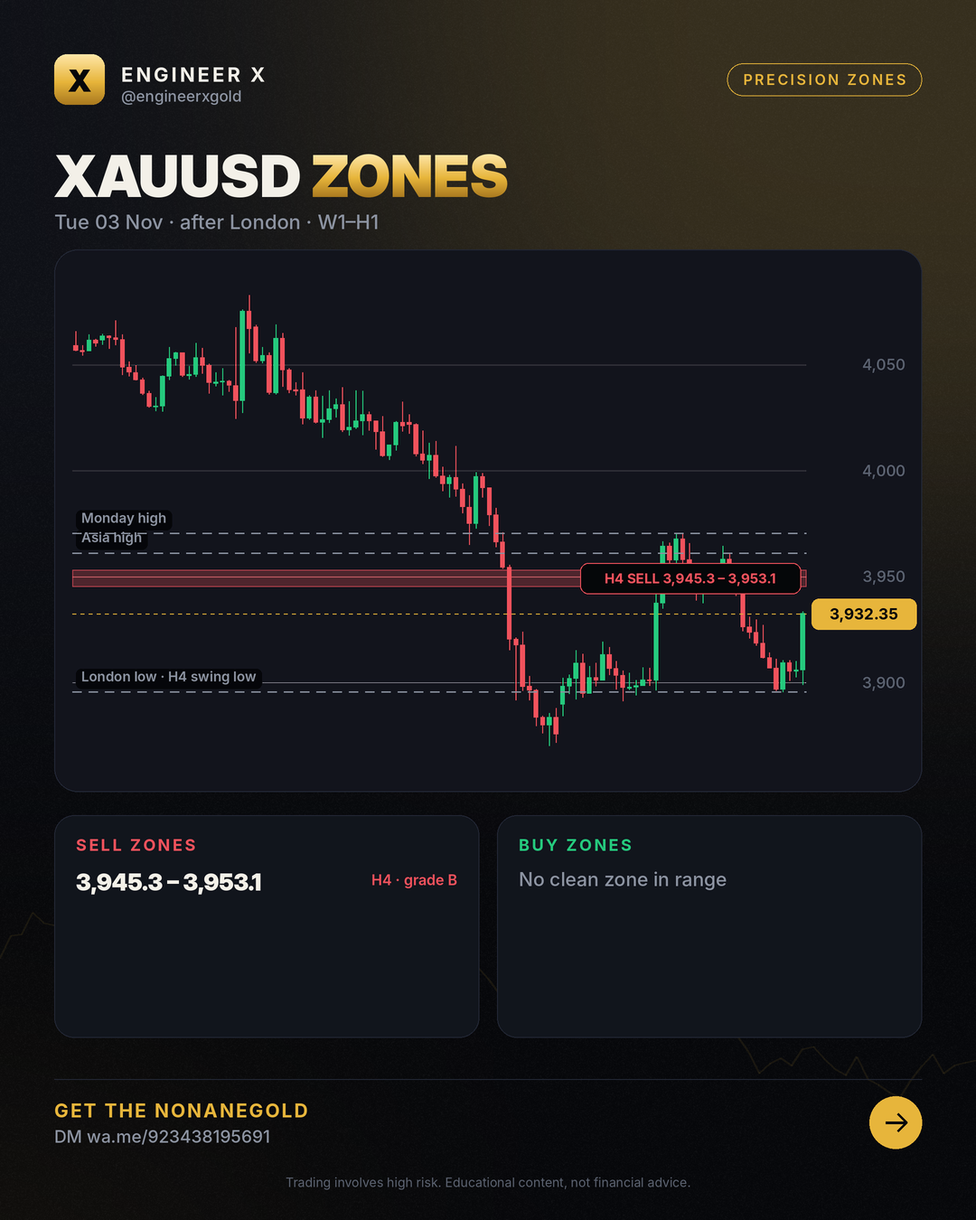
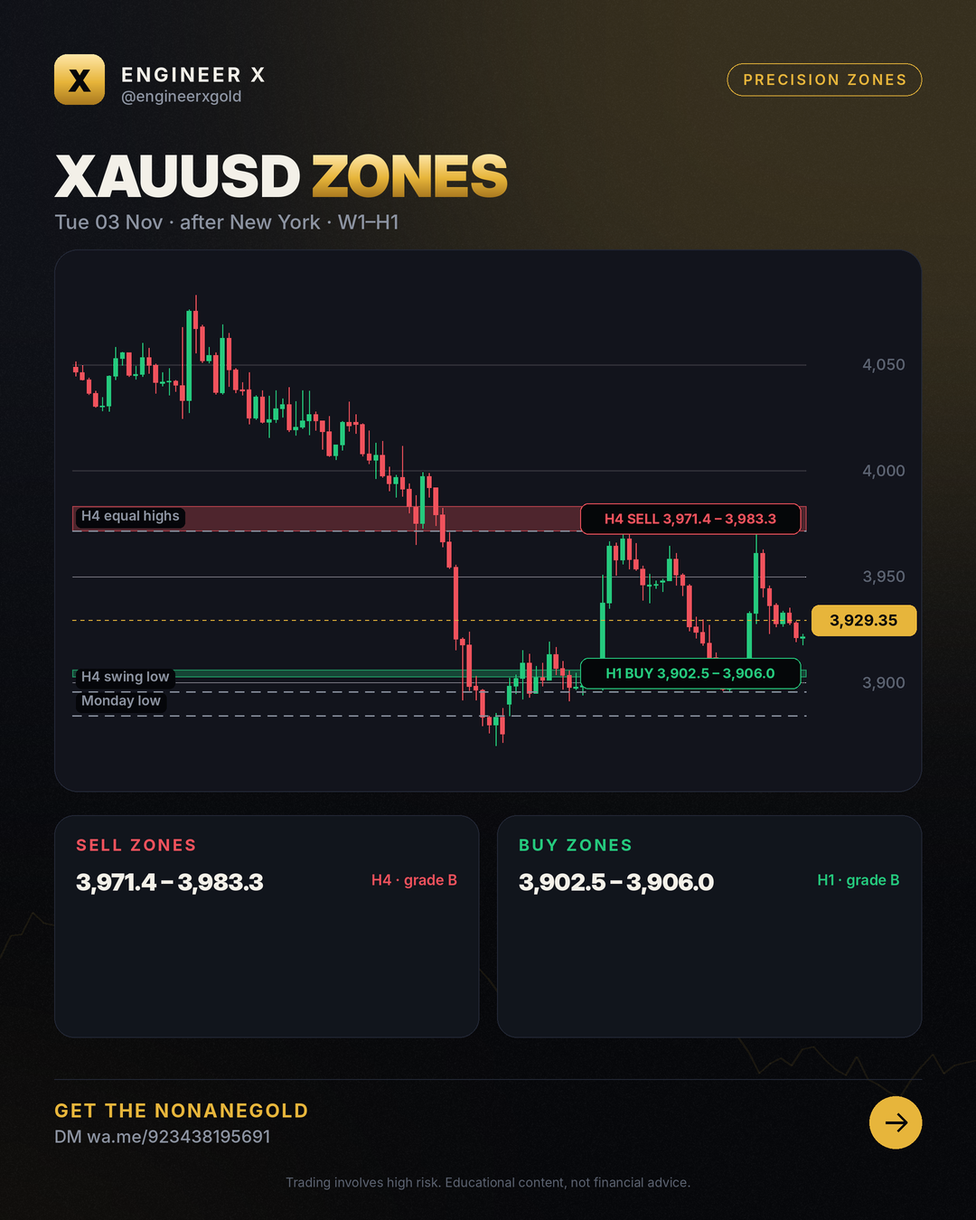
zones 2026-11-03 Tue 03 Nov · after New York · W1–H1

diff --git a/zones/index.html b/zones/index.html
@@ -4,7 +4,7 @@
 <meta charset="utf-8">
 <meta name="viewport" content="width=device-width,initial-scale=1">
 <title>XAUUSD Zones Today – Buy &amp; Sell Zones (H4, H1) | Engineer X</title>
-<meta name="description" content="XAUUSD buy and sell zones for 2026-11-03: tested W1, D1, H4 and H1 zones with invalidation levels, updated after the Asian, London and New York sessions. Price 3,932.35.">
+<meta name="description" content="XAUUSD buy and sell zones for 2026-11-03: tested W1, D1, H4 and H1 zones with invalidation levels, updated after the Asian, London and New York sessions. Price 3,929.35.">
 <meta name="robots" content="index,follow,max-image-preview:large,max-snippet:-1,max-video-preview:-1">
 <meta name="author" content="Engr. M Ahmad Mehmood">
 <link rel="canonical" href="https://engineerxgold.github.io/zones/">
@@ -12,7 +12,7 @@
 <link rel="apple-touch-icon" href="../img/logo.png">
 <meta property="og:site_name" content="Engineer X">
 <meta property="og:title" content="XAUUSD Zones Today – Buy &amp; Sell Zones (H4, H1) | Engineer X">
-<meta property="og:description" content="XAUUSD buy and sell zones for 2026-11-03: tested W1, D1, H4 and H1 zones with invalidation levels, updated after the Asian, London and New York sessions. Price 3,932.35.">
+<meta property="og:description" content="XAUUSD buy and sell zones for 2026-11-03: tested W1, D1, H4 and H1 zones with invalidation levels, updated after the Asian, London and New York sessions. Price 3,929.35.">
 <meta property="og:type" content="website">
 <meta property="og:url" content="https://engineerxgold.github.io/zones/">
 <meta property="og:image" content="https://engineerxgold.github.io/zones/img/2026-11-03.png">
@@ -22,7 +22,7 @@
 <meta property="og:locale" content="en_US">
 <meta name="twitter:card" content="summary_large_image">
 <meta name="twitter:title" content="XAUUSD Zones Today – Buy &amp; Sell Zones (H4, H1) | Engineer X">
-<meta name="twitter:description" content="XAUUSD buy and sell zones for 2026-11-03: tested W1, D1, H4 and H1 zones with invalidation levels, updated after the Asian, London and New York sessions. Price 3,932.35.">
+<meta name="twitter:description" content="XAUUSD buy and sell zones for 2026-11-03: tested W1, D1, H4 and H1 zones with invalidation levels, updated after the Asian, London and New York sessions. Price 3,929.35.">
 <meta name="twitter:image" content="https://engineerxgold.github.io/zones/img/2026-11-03.png">
 <meta name="twitter:image:alt" content="XAUUSD Zones Today – Buy &amp; Sell Zones (H4, H1) | Engineer X">
 
@@ -101,7 +101,7 @@ footer .fl a{color:var(--muted);margin-right:16px}
 <div class="wrap">
 <nav><a class="logo" href="../"><b>X</b>Engineer X</a>
 <div class="links"><a href="../zones/">Daily Zones</a><a href="../blog/">Learn</a><a href="../ea/">Gold EA</a><a href="../about/">About</a><a class="cta" href="https://wa.me/923438195691">Get the EA</a></div></nav>
-<section class="hero"><span class="chip">Updated Tue 03 Nov · after London · W1–H1</span><h1>XAUUSD <span class="gold">precision zones</span></h1><p>XAUUSD buy and sell zones for 2026-11-03: tested W1, D1, H4 and H1 zones with invalidation levels, updated after the Asian, London and New York sessions. Price 3,932.35.</p></section><img src="img/2026-11-03.png" alt="Latest XAUUSD zone map" width="1080" height="1350"><section><h2>Current zones</h2><div style="overflow-x:auto"><table style="width:100%;border-collapse:collapse;font-size:15px"><tr><th align=left>Zone</th><th align=left>Price band</th><th>Grade</th><th align=left>Invalid</th><th align=left>Why</th></tr><tr><td>H4 sell</td><td><b>3,945.31 – 3,953.08</b></td><td>B</td><td>above 3,954.60</td><td>MSNR resistance levels (fresh): 4H A 3950.81, 30m GAP 3947.58. Wrong if price trades above 3954.60.; Confluence score 2: MSNR + SMC</td></tr></table></div></section><section><h2>Honest scorecard</h2><div class="grid"><div class="card"><div class="n">228</div><p>zones published (30 days)</p></div><div class="card"><div class="n">114</div><p>held (moved 1 hourly ATR away)</p></div><div class="card"><div class="n">21</div><p>broke (traded beyond the invalidation)</p></div><div class="card"><div class="n">84%</div><p>hold rate of decided zones</p></div></div></section><div class="ctabox"><h3>🤖 Trade the zones with the NonaneGold</h3><p>Free signals group access + setup help Message us and we will help you set it up.</p><div class="btns"><a class="btn gold" href="https://wa.me/923438195691">Get the EA on Telegram</a><a class="btn ghost" href="../ea/">About the EA</a></div></div><section><h2>Archive</h2><div class="grid posts"><a class="card" href="2026-11-03/"><span class="date">2026-11-03</span><h3>XAUUSD zones 2026-11-03</h3></a><a class="card" href="2026-11-02/"><span class="date">2026-11-02</span><h3>XAUUSD zones 2026-11-02</h3></a><a class="card" href="2026-10-30/"><span class="date">2026-10-30</span><h3>XAUUSD zones 2026-10-30</h3></a><a class="card" href="2026-10-29/"><span class="date">2026-10-29</span><h3>XAUUSD zones 2026-10-29</h3></a><a class="card" href="2026-10-28/"><span class="date">2026-10-28</span><h3>XAUUSD zones 2026-10-28</h3></a><a class="card" href="2026-10-27/"><span class="date">2026-10-27</span><h3>XAUUSD zones 2026-10-27</h3></a><a class="card" href="2026-10-26/"><span class="date">2026-10-26</span><h3>XAUUSD zones 2026-10-26</h3></a><a class="card" href="2026-10-23/"><span class="date">2026-10-23</span><h3>XAUUSD zones 2026-10-23</h3></a><a class="card" href="2026-10-22/"><span class="date">2026-10-22</span><h3>XAUUSD zones 2026-10-22</h3></a><a class="card" href="2026-10-21/"><span class="date">2026-10-21</span><h3>XAUUSD zones 2026-10-21</h3></a><a class="card" href="2026-10-20/"><span class="date">2026-10-20</span><h3>XAUUSD zones 2026-10-20</h3></a><a class="card" href="2026-10-19/"><span class="date">2026-10-19</span><h3>XAUUSD zones 2026-10-19</h3></a><a class="card" href="2026-10-16/"><span class="date">2026-10-16</span><h3>XAUUSD zones 2026-10-16</h3></a><a class="card" href="2026-10-15/"><span class="date">2026-10-15</span><h3>XAUUSD zones 2026-10-15</h3></a><a class="card" href="2026-10-14/"><span class="date">2026-10-14</span><h3>XAUUSD zones 2026-10-14</h3></a><a class="card" href="2026-10-13/"><span class="date">2026-10-13</span><h3>XAUUSD zones 2026-10-13</h3></a></div></section>
+<section class="hero"><span class="chip">Updated Tue 03 Nov · after New York · W1–H1</span><h1>XAUUSD <span class="gold">precision zones</span></h1><p>XAUUSD buy and sell zones for 2026-11-03: tested W1, D1, H4 and H1 zones with invalidation levels, updated after the Asian, London and New York sessions. Price 3,929.35.</p></section><img src="img/2026-11-03.png" alt="Latest XAUUSD zone map" width="1080" height="1350"><section><h2>Current zones</h2><div style="overflow-x:auto"><table style="width:100%;border-collapse:collapse;font-size:15px"><tr><th align=left>Zone</th><th align=left>Price band</th><th>Grade</th><th align=left>Invalid</th><th align=left>Why</th></tr><tr><td>H4 sell</td><td><b>3,971.37 – 3,983.28</b></td><td>B</td><td>above 3,984.77</td><td>Confluence score 3: ICT + PA + LIQ</td></tr><tr><td>H1 buy</td><td><b>3,902.52 – 3,906.03</b></td><td>B</td><td>below 3,901.03</td><td>H1 demand: 1 small base candle (Tue 03 Nov 06:00 NY), then a strong move up (4.7x ATR). Untouched since. Wrong if price trades below 3901.03.; MSNR levels insid</td></tr></table></div></section><section><h2>Honest scorecard</h2><div class="grid"><div class="card"><div class="n">230</div><p>zones published (30 days)</p></div><div class="card"><div class="n">115</div><p>held (moved 1 hourly ATR away)</p></div><div class="card"><div class="n">22</div><p>broke (traded beyond the invalidation)</p></div><div class="card"><div class="n">84%</div><p>hold rate of decided zones</p></div></div></section><div class="ctabox"><h3>🤖 Trade the zones with the NonaneGold</h3><p>Free signals group access + setup help Message us and we will help you set it up.</p><div class="btns"><a class="btn gold" href="https://wa.me/923438195691">Get the EA on Telegram</a><a class="btn ghost" href="../ea/">About the EA</a></div></div><section><h2>Archive</h2><div class="grid posts"><a class="card" href="2026-11-03/"><span class="date">2026-11-03</span><h3>XAUUSD zones 2026-11-03</h3></a><a class="card" href="2026-11-02/"><span class="date">2026-11-02</span><h3>XAUUSD zones 2026-11-02</h3></a><a class="card" href="2026-10-30/"><span class="date">2026-10-30</span><h3>XAUUSD zones 2026-10-30</h3></a><a class="card" href="2026-10-29/"><span class="date">2026-10-29</span><h3>XAUUSD zones 2026-10-29</h3></a><a class="card" href="2026-10-28/"><span class="date">2026-10-28</span><h3>XAUUSD zones 2026-10-28</h3></a><a class="card" href="2026-10-27/"><span class="date">2026-10-27</span><h3>XAUUSD zones 2026-10-27</h3></a><a class="card" href="2026-10-26/"><span class="date">2026-10-26</span><h3>XAUUSD zones 2026-10-26</h3></a><a class="card" href="2026-10-23/"><span class="date">2026-10-23</span><h3>XAUUSD zones 2026-10-23</h3></a><a class="card" href="2026-10-22/"><span class="date">2026-10-22</span><h3>XAUUSD zones 2026-10-22</h3></a><a class="card" href="2026-10-21/"><span class="date">2026-10-21</span><h3>XAUUSD zones 2026-10-21</h3></a><a class="card" href="2026-10-20/"><span class="date">2026-10-20</span><h3>XAUUSD zones 2026-10-20</h3></a><a class="card" href="2026-10-19/"><span class="date">2026-10-19</span><h3>XAUUSD zones 2026-10-19</h3></a><a class="card" href="2026-10-16/"><span class="date">2026-10-16</span><h3>XAUUSD zones 2026-10-16</h3></a><a class="card" href="2026-10-15/"><span class="date">2026-10-15</span><h3>XAUUSD zones 2026-10-15</h3></a><a class="card" href="2026-10-14/"><span class="date">2026-10-14</span><h3>XAUUSD zones 2026-10-14</h3></a><a class="card" href="2026-10-13/"><span class="date">2026-10-13</span><h3>XAUUSD zones 2026-10-13</h3></a></div></section>
 <footer>
 <div class="warn"><b>Risk warning:</b> Trading gold, forex and CFDs carries a high risk of losing money and is not suitable for everyone. Past results do not guarantee future results. Everything on this site is educational and not financial advice. We are an introducing partner of our broker and may earn a commission on accounts opened through our link.</div>
 <p class="fl" style="margin-top:18px"><a href="../about/">About &amp; methodology</a><a href="../privacy.html">Privacy</a><a href="../terms.html">Terms &amp; risk disclosure</a><a href="../feed.xml">RSS</a><a href="https://t.me/engineerxgold">Telegram</a></p>

diff --git a/zones/2026-11-03/index.html b/zones/2026-11-03/index.html
@@ -4,7 +4,7 @@
 <meta charset="utf-8">
 <meta name="viewport" content="width=device-width,initial-scale=1">
 <title>Gold Support Resistance – 03 Nov 2026 (W1–H1)</title>
-<meta name="description" content="XAUUSD buy and sell zones for 2026-11-03: tested W1, D1, H4 and H1 zones with invalidation levels, updated after the Asian, London and New York sessions. Price 3,932.35.">
+<meta name="description" content="XAUUSD buy and sell zones for 2026-11-03: tested W1, D1, H4 and H1 zones with invalidation levels, updated after the Asian, London and New York sessions. Price 3,929.35.">
 <meta name="robots" content="index,follow,max-image-preview:large,max-snippet:-1,max-video-preview:-1">
 <meta name="author" content="Engr. M Ahmad Mehmood">
 <link rel="canonical" href="https://engineerxgold.github.io/zones/2026-11-03/">
@@ -12,7 +12,7 @@
 <link rel="apple-touch-icon" href="../../img/logo.png">
 <meta property="og:site_name" content="Engineer X">
 <meta property="og:title" content="Gold Support Resistance – 03 Nov 2026 (W1–H1)">
-<meta property="og:description" content="XAUUSD buy and sell zones for 2026-11-03: tested W1, D1, H4 and H1 zones with invalidation levels, updated after the Asian, London and New York sessions. Price 3,932.35.">
+<meta property="og:description" content="XAUUSD buy and sell zones for 2026-11-03: tested W1, D1, H4 and H1 zones with invalidation levels, updated after the Asian, London and New York sessions. Price 3,929.35.">
 <meta property="og:type" content="article">
 <meta property="og:url" content="https://engineerxgold.github.io/zones/2026-11-03/">
 <meta property="og:image" content="https://engineerxgold.github.io/zones/img/2026-11-03.png">
@@ -22,7 +22,7 @@
 <meta property="og:locale" content="en_US">
 <meta name="twitter:card" content="summary_large_image">
 <meta name="twitter:title" content="Gold Support Resistance – 03 Nov 2026 (W1–H1)">
-<meta name="twitter:description" content="XAUUSD buy and sell zones for 2026-11-03: tested W1, D1, H4 and H1 zones with invalidation levels, updated after the Asian, London and New York sessions. Price 3,932.35.">
+<meta name="twitter:description" content="XAUUSD buy and sell zones for 2026-11-03: tested W1, D1, H4 and H1 zones with invalidation levels, updated after the Asian, London and New York sessions. Price 3,929.35.">
 <meta name="twitter:image" content="https://engineerxgold.github.io/zones/img/2026-11-03.png">
 <meta name="twitter:image:alt" content="Gold Support Resistance – 03 Nov 2026 (W1–H1)">
 
@@ -32,7 +32,7 @@
 <link rel="preconnect" href="https://fonts.googleapis.com">
 <link rel="preconnect" href="https://fonts.gstatic.com" crossorigin>
 <link href="https://fonts.googleapis.com/css2?family=Inter:wght@400;500;600;800;900&display=swap" rel="stylesheet">
-<script type="application/ld+json">{"@context": "https://schema.org", "@type": "Organization", "@id": "https://engineerxgold.github.io/#organization", "name": "Engineer X", "url": "https://engineerxgold.github.io/", "logo": {"@type": "ImageObject", "url": "https://engineerxgold.github.io/img/logo.png", "width": 512, "height": 512}, "sameAs": ["https://t.me/engineerxgold"]}</script><script type="application/ld+json">{"@context": "https://schema.org", "@type": "Article", "headline": "Gold Support Resistance – 03 Nov 2026 (W1–H1)", "datePublished": "2026-11-03T08:00:00+05:00", "dateModified": "2026-11-03T18:25:00+05:00", "author": {"@type": "Person", "@id": "https://engineerxgold.github.io/about/#author", "name": "Engr. M Ahmad Mehmood", "url": "https://engineerxgold.github.io/about/", "jobTitle": "MQL5 Expert Advisor developer and gold market analyst", "worksFor": {"@id": "https://engineerxgold.github.io/#organization"}}, "publisher": {"@id": "https://engineerxgold.github.io/#organization"}, "image": "https://engineerxgold.github.io/zones/img/2026-11-03.png", "mainEntityOfPage": "https://engineerxgold.github.io/zones/2026-11-03/"}</script>
+<script type="application/ld+json">{"@context": "https://schema.org", "@type": "Organization", "@id": "https://engineerxgold.github.io/#organization", "name": "Engineer X", "url": "https://engineerxgold.github.io/", "logo": {"@type": "ImageObject", "url": "https://engineerxgold.github.io/img/logo.png", "width": 512, "height": 512}, "sameAs": ["https://t.me/engineerxgold"]}</script><script type="application/ld+json">{"@context": "https://schema.org", "@type": "Article", "headline": "Gold Support Resistance – 03 Nov 2026 (W1–H1)", "datePublished": "2026-11-03T08:00:00+05:00", "dateModified": "2026-11-04T03:03:08+05:00", "author": {"@type": "Person", "@id": "https://engineerxgold.github.io/about/#author", "name": "Engr. M Ahmad Mehmood", "url": "https://engineerxgold.github.io/about/", "jobTitle": "MQL5 Expert Advisor developer and gold market analyst", "worksFor": {"@id": "https://engineerxgold.github.io/#organization"}}, "publisher": {"@id": "https://engineerxgold.github.io/#organization"}, "image": "https://engineerxgold.github.io/zones/img/2026-11-03.png", "mainEntityOfPage": "https://engineerxgold.github.io/zones/2026-11-03/"}</script>
 
 <style>
 :root{--gold:#E7B53B;--gold-hi:#FFE7A8;--bg:#07080B;--bg2:#0E1016;--panel:#12151D;--line:#232836;--green:#25C97D;--red:#F0525C;--text:#F3F0E8;--muted:#8C93A1}
@@ -101,7 +101,7 @@ footer .fl a{color:var(--muted);margin-right:16px}
 <div class="wrap">
 <nav><a class="logo" href="../../"><b>X</b>Engineer X</a>
 <div class="links"><a href="../../zones/">Daily Zones</a><a href="../../blog/">Learn</a><a href="../../ea/">Gold EA</a><a href="../../about/">About</a><a class="cta" href="https://wa.me/923438195691">Get the EA</a></div></nav>
-<article><p class="crumbs"><a href="../../">Home</a> › <a href="../">Zones</a> › 2026-11-03</p><h1>Gold Support Resistance – 03 Nov 2026 (W1–H1)</h1><p class="byline">Tue 03 Nov · after London · W1–H1 · by Engr. M Ahmad Mehmood</p><img src="../img/2026-11-03.png" alt="XAUUSD zone map 2026-11-03" width="1080" height="1350" loading="eager"><h2>Zones</h2><div style="overflow-x:auto"><table style="width:100%;border-collapse:collapse;font-size:15px"><tr><th align=left>Zone</th><th align=left>Price band</th><th>Grade</th><th align=left>Invalid</th><th align=left>Why</th></tr><tr><td>H4 sell</td><td><b>3,945.31 – 3,953.08</b></td><td>B</td><td>above 3,954.60</td><td>MSNR resistance levels (fresh): 4H A 3950.81, 30m GAP 3947.58. Wrong if price trades above 3954.60.; Confluence score 2: MSNR + SMC</td></tr></table></div><h2>How to read this map</h2><p>Bands are where price is expected to react; they are not entries. Trading beyond the invalidation price ends the zone; each zone counts once (first touch). Highs and lows listed as liquidity are targets: on 10 years of gold price ran through them more often than through random levels.</p><div class="ctabox"><h3>🤖 Trade the zones with the NonaneGold</h3><p>Free signals group access + setup help Message us and we will help you set it up.</p><div class="btns"><a class="btn gold" href="https://wa.me/923438195691">Get the EA on Telegram</a><a class="btn ghost" href="../../ea/">About the EA</a></div></div></article>
+<article><p class="crumbs"><a href="../../">Home</a> › <a href="../">Zones</a> › 2026-11-03</p><h1>Gold Support Resistance – 03 Nov 2026 (W1–H1)</h1><p class="byline">Tue 03 Nov · after New York · W1–H1 · by Engr. M Ahmad Mehmood</p><img src="../img/2026-11-03.png" alt="XAUUSD zone map 2026-11-03" width="1080" height="1350" loading="eager"><h2>Zones</h2><div style="overflow-x:auto"><table style="width:100%;border-collapse:collapse;font-size:15px"><tr><th align=left>Zone</th><th align=left>Price band</th><th>Grade</th><th align=left>Invalid</th><th align=left>Why</th></tr><tr><td>H4 sell</td><td><b>3,971.37 – 3,983.28</b></td><td>B</td><td>above 3,984.77</td><td>Confluence score 3: ICT + PA + LIQ</td></tr><tr><td>H1 buy</td><td><b>3,902.52 – 3,906.03</b></td><td>B</td><td>below 3,901.03</td><td>H1 demand: 1 small base candle (Tue 03 Nov 06:00 NY), then a strong move up (4.7x ATR). Untouched since. Wrong if price trades below 3901.03.; MSNR levels insid</td></tr></table></div><h2>How to read this map</h2><p>Bands are where price is expected to react; they are not entries. Trading beyond the invalidation price ends the zone; each zone counts once (first touch). Highs and lows listed as liquidity are targets: on 10 years of gold price ran through them more often than through random levels.</p><div class="ctabox"><h3>🤖 Trade the zones with the NonaneGold</h3><p>Free signals group access + setup help Message us and we will help you set it up.</p><div class="btns"><a class="btn gold" href="https://wa.me/923438195691">Get the EA on Telegram</a><a class="btn ghost" href="../../ea/">About the EA</a></div></div></article>
 <footer>
 <div class="warn"><b>Risk warning:</b> Trading gold, forex and CFDs carries a high risk of losing money and is not suitable for everyone. Past results do not guarantee future results. Everything on this site is educational and not financial advice. We are an introducing partner of our broker and may earn a commission on accounts opened through our link.</div>
 <p class="fl" style="margin-top:18px"><a href="../../about/">About &amp; methodology</a><a href="../../privacy.html">Privacy</a><a href="../../terms.html">Terms &amp; risk disclosure</a><a href="../../feed.xml">RSS</a><a href="https://t.me/engineerxgold">Telegram</a></p>

diff --git a/index.html b/index.html
@@ -101,7 +101,7 @@ footer .fl a{color:var(--muted);margin-right:16px}
 <div class="wrap">
 <nav><a class="logo" href="./"><b>X</b>Engineer X</a>
 <div class="links"><a href="./zones/">Daily Zones</a><a href="./blog/">Learn</a><a href="./ea/">Gold EA</a><a href="./about/">About</a><a class="cta" href="https://wa.me/923438195691">Get the EA</a></div></nav>
-<section class="hero"><span class="chip">XAUUSD · W1–H1 · every session</span><h1>Gold <span class="gold">precision zones</span>, updated after every session</h1><p>Tested buy and sell zones with clear invalidation, a scorecard of every result, and the NonaneGold for traders who want it automated.</p><div class="btns"><a class="btn gold" href="zones/">See today's zones</a><a class="btn ghost" href="https://wa.me/923438195691">Get the EA</a></div></section><section><h2>Latest map Tue 03 Nov · after London · W1–H1</h2><img src="zones/img/2026-11-03.png" alt="Latest XAUUSD zones" width="1080" height="1350"></section><div class="ctabox"><h3>🤖 Trade the zones with the NonaneGold</h3><p>Free signals group access + setup help Message us and we will help you set it up.</p><div class="btns"><a class="btn gold" href="https://wa.me/923438195691">Get the EA on Telegram</a><a class="btn ghost" href="ea/">About the EA</a></div></div><section><h2>Learn</h2><div class="grid posts"><a class="card" href="blog/gold-support-resistance-today-s-map-key-zones/"><span class="date">2026-11-03</span><h3>Gold Support Resistance: Today&#x27;s Map &amp; Key Zones</h3></a><a class="card" href="blog/gold-supply-and-demand-zones-h4-setup-levels/"><span class="date">2026-11-01</span><h3>Gold Supply and Demand Zones: H4 Setup &amp; Levels</h3></a><a class="card" href="blog/gold-supply-and-demand-zones-h4-h1-trading-map-2026-10-31/"><span class="date">2026-10-31</span><h3>Gold Supply and Demand Zones: H4 &amp; H1 Trading Map</h3></a><a class="card" href="blog/gold-price-today-live-technical-levels-zone-map/"><span class="date">2026-10-30</span><h3>Gold Price Today: Live Technical Levels &amp; Zone Map</h3></a><a class="card" href="blog/gold-trading-h4-trend-zones-liquidity-map/"><span class="date">2026-10-29</span><h3>Gold Trading: H4 Trend Zones &amp; Liquidity Map</h3></a><a class="card" href="blog/gold-trading-analyzing-today-s-zones-liquidity/"><span class="date">2026-10-28</span><h3>Gold Trading: Analyzing Today&#x27;s Zones &amp; Liquidity</h3></a></div></section><section><h2>FAQ</h2><details><summary>What is a precision zone?</summary><p>A point of interest from a trading book (OTE 0.705, balanced price range, weekly close level, daily order block) that held better than random levels on 10 years of gold. Each zone has an invalidation price.</p></details><details><summary>How often are the zones updated?</summary><p>A daily plan at the Asian open, then after the Asian, London and New York sessions.</p></details><details><summary>Are these trade signals?</summary><p>No. Zones are areas to watch. Wait for your own confirmation and manage risk.</p></details><details><summary>How do I get the Gold EA?</summary><p>Message us on Telegram or WhatsApp; we answer and help with the setup.</p></details></section>
+<section class="hero"><span class="chip">XAUUSD · W1–H1 · every session</span><h1>Gold <span class="gold">precision zones</span>, updated after every session</h1><p>Tested buy and sell zones with clear invalidation, a scorecard of every result, and the NonaneGold for traders who want it automated.</p><div class="btns"><a class="btn gold" href="zones/">See today's zones</a><a class="btn ghost" href="https://wa.me/923438195691">Get the EA</a></div></section><section><h2>Latest map Tue 03 Nov · after New York · W1–H1</h2><img src="zones/img/2026-11-03.png" alt="Latest XAUUSD zones" width="1080" height="1350"></section><div class="ctabox"><h3>🤖 Trade the zones with the NonaneGold</h3><p>Free signals group access + setup help Message us and we will help you set it up.</p><div class="btns"><a class="btn gold" href="https://wa.me/923438195691">Get the EA on Telegram</a><a class="btn ghost" href="ea/">About the EA</a></div></div><section><h2>Learn</h2><div class="grid posts"><a class="card" href="blog/gold-support-resistance-today-s-map-key-zones/"><span class="date">2026-11-03</span><h3>Gold Support Resistance: Today&#x27;s Map &amp; Key Zones</h3></a><a class="card" href="blog/gold-supply-and-demand-zones-h4-setup-levels/"><span class="date">2026-11-01</span><h3>Gold Supply and Demand Zones: H4 Setup &amp; Levels</h3></a><a class="card" href="blog/gold-supply-and-demand-zones-h4-h1-trading-map-2026-10-31/"><span class="date">2026-10-31</span><h3>Gold Supply and Demand Zones: H4 &amp; H1 Trading Map</h3></a><a class="card" href="blog/gold-price-today-live-technical-levels-zone-map/"><span class="date">2026-10-30</span><h3>Gold Price Today: Live Technical Levels &amp; Zone Map</h3></a><a class="card" href="blog/gold-trading-h4-trend-zones-liquidity-map/"><span class="date">2026-10-29</span><h3>Gold Trading: H4 Trend Zones &amp; Liquidity Map</h3></a><a class="card" href="blog/gold-trading-analyzing-today-s-zones-liquidity/"><span class="date">2026-10-28</span><h3>Gold Trading: Analyzing Today&#x27;s Zones &amp; Liquidity</h3></a></div></section><section><h2>FAQ</h2><details><summary>What is a precision zone?</summary><p>A point of interest from a trading book (OTE 0.705, balanced price range, weekly close level, daily order block) that held better than random levels on 10 years of gold. Each zone has an invalidation price.</p></details><details><summary>How often are the zones updated?</summary><p>A daily plan at the Asian open, then after the Asian, London and New York sessions.</p></details><details><summary>Are these trade signals?</summary><p>No. Zones are areas to watch. Wait for your own confirmation and manage risk.</p></details><details><summary>How do I get the Gold EA?</summary><p>Message us on Telegram or WhatsApp; we answer and help with the setup.</p></details></section>
 <footer>
 <div class="warn"><b>Risk warning:</b> Trading gold, forex and CFDs carries a high risk of losing money and is not suitable for everyone. Past results do not guarantee future results. Everything on this site is educational and not financial advice. We are an introducing partner of our broker and may earn a commission on accounts opened through our link.</div>
 <p class="fl" style="margin-top:18px"><a href="./about/">About &amp; methodology</a><a href="./privacy.html">Privacy</a><a href="./terms.html">Terms &amp; risk disclosure</a><a href="./feed.xml">RSS</a><a href="https://t.me/engineerxgold">Telegram</a></p>
